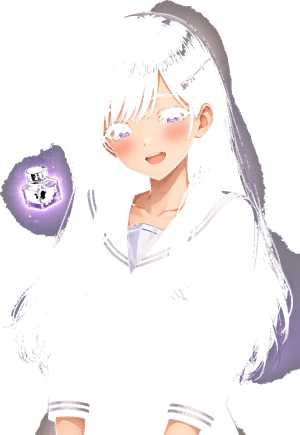
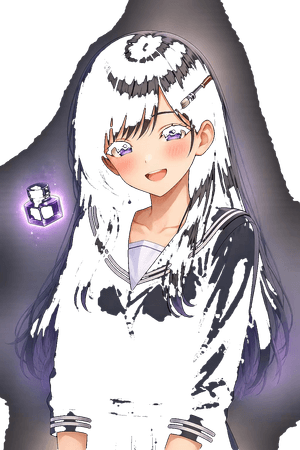
黑底图片光晕优化

diff --git a/sw.js b/sw.js
@@ -1,1 +1,1 @@
-if(!self.define){let e,i={};const s=(s,n)=>(s=new URL(s+".js",n).href,i[s]||new Promise(i=>{if("document"in self){const e=document.createElement("script");e.src=s,e.onload=i,document.head.appendChild(e)}else e=s,importScripts(s),i()}).then(()=>{let e=i[s];if(!e)throw new Error(`Module ${s} didn’t register its module`);return e}));self.define=(n,r)=>{const o=e||("document"in self?document.currentScript.src:"")||location.href;if(i[o])return;let t={};const a=e=>s(e,o),c={module:{uri:o},exports:t,require:a};i[o]=Promise.all(n.map(e=>c[e]||a(e))).then(e=>(r(...e),t))}}define(["./workbox-e4022e15"],function(e){"use strict";self.skipWaiting(),e.clientsClaim(),e.precacheAndRoute([{url:"registerSW.js",revision:"53f643b2487f2b0d413e2a80bb6c2feb"},{url:"index.html",revision:"61c762ca8319da26ba8cb1a1785ba162"},{url:"favicon.svg",revision:"0abef3ebaf8a2931a753d90f29229912"},{url:"mascot/thinking.png",revision:"1580fdccee632c170bd4275774fb3d86"},{url:"mascot/surprised.png",revision:"0a6114fb2e40615bcad8053d56e9c815"},{url:"mascot/normal.png",revision:"bdd5ca5a8f284df2f538e302911885ff"},{url:"mascot/happy.png",revision:"004a7d251c93427906a0e488d3916bc0"},{url:"assets/index-Cp9AgcZd.js",revision:null},{url:"assets/index-CgI6kEY9.css",revision:null},{url:"favicon.svg",revision:"0abef3ebaf8a2931a753d90f29229912"},{url:"manifest.webmanifest",revision:"0b7b665f490fedc2aef7f548065d6e55"}],{}),e.cleanupOutdatedCaches(),e.registerRoute(new e.NavigationRoute(e.createHandlerBoundToURL("index.html"))),e.registerRoute(/^https?:\/\/.*/,new e.NetworkFirst({cacheName:"app-cache",plugins:[new e.ExpirationPlugin({maxEntries:200,maxAgeSeconds:2592e3})]}),"GET")});
+if(!self.define){let e,i={};const s=(s,n)=>(s=new URL(s+".js",n).href,i[s]||new Promise(i=>{if("document"in self){const e=document.createElement("script");e.src=s,e.onload=i,document.head.appendChild(e)}else e=s,importScripts(s),i()}).then(()=>{let e=i[s];if(!e)throw new Error(`Module ${s} didn’t register its module`);return e}));self.define=(n,r)=>{const o=e||("document"in self?document.currentScript.src:"")||location.href;if(i[o])return;let t={};const a=e=>s(e,o),c={module:{uri:o},exports:t,require:a};i[o]=Promise.all(n.map(e=>c[e]||a(e))).then(e=>(r(...e),t))}}define(["./workbox-e4022e15"],function(e){"use strict";self.skipWaiting(),e.clientsClaim(),e.precacheAndRoute([{url:"registerSW.js",revision:"53f643b2487f2b0d413e2a80bb6c2feb"},{url:"index.html",revision:"61c762ca8319da26ba8cb1a1785ba162"},{url:"favicon.svg",revision:"0abef3ebaf8a2931a753d90f29229912"},{url:"mascot/thinking.png",revision:"054cf93ca0a438d596dd88d561dc3294"},{url:"mascot/surprised.png",revision:"84dd0d17706feabcdd652707666df1c4"},{url:"mascot/normal.png",revision:"bdd5ca5a8f284df2f538e302911885ff"},{url:"mascot/happy.png",revision:"3b064063f385441cb6f24da3ebf0e626"},{url:"assets/index-Cp9AgcZd.js",revision:null},{url:"assets/index-CgI6kEY9.css",revision:null},{url:"favicon.svg",revision:"0abef3ebaf8a2931a753d90f29229912"},{url:"manifest.webmanifest",revision:"0b7b665f490fedc2aef7f548065d6e55"}],{}),e.cleanupOutdatedCaches(),e.registerRoute(new e.NavigationRoute(e.createHandlerBoundToURL("index.html"))),e.registerRoute(/^https?:\/\/.*/,new e.NetworkFirst({cacheName:"app-cache",plugins:[new e.ExpirationPlugin({maxEntries:200,maxAgeSeconds:2592e3})]}),"GET")});
